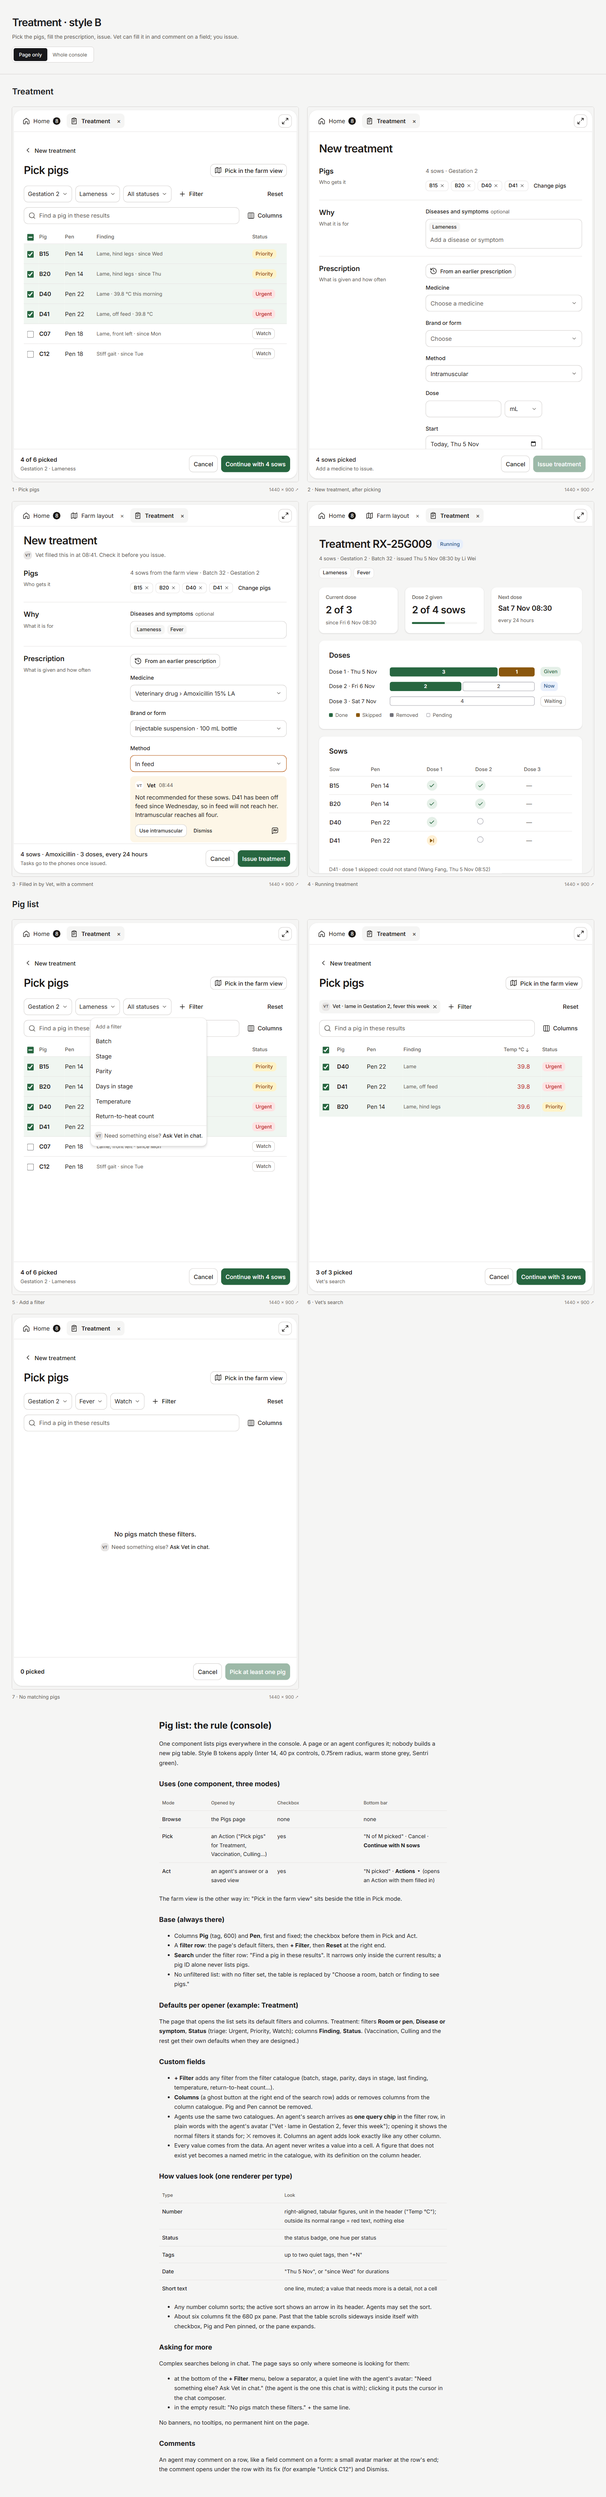
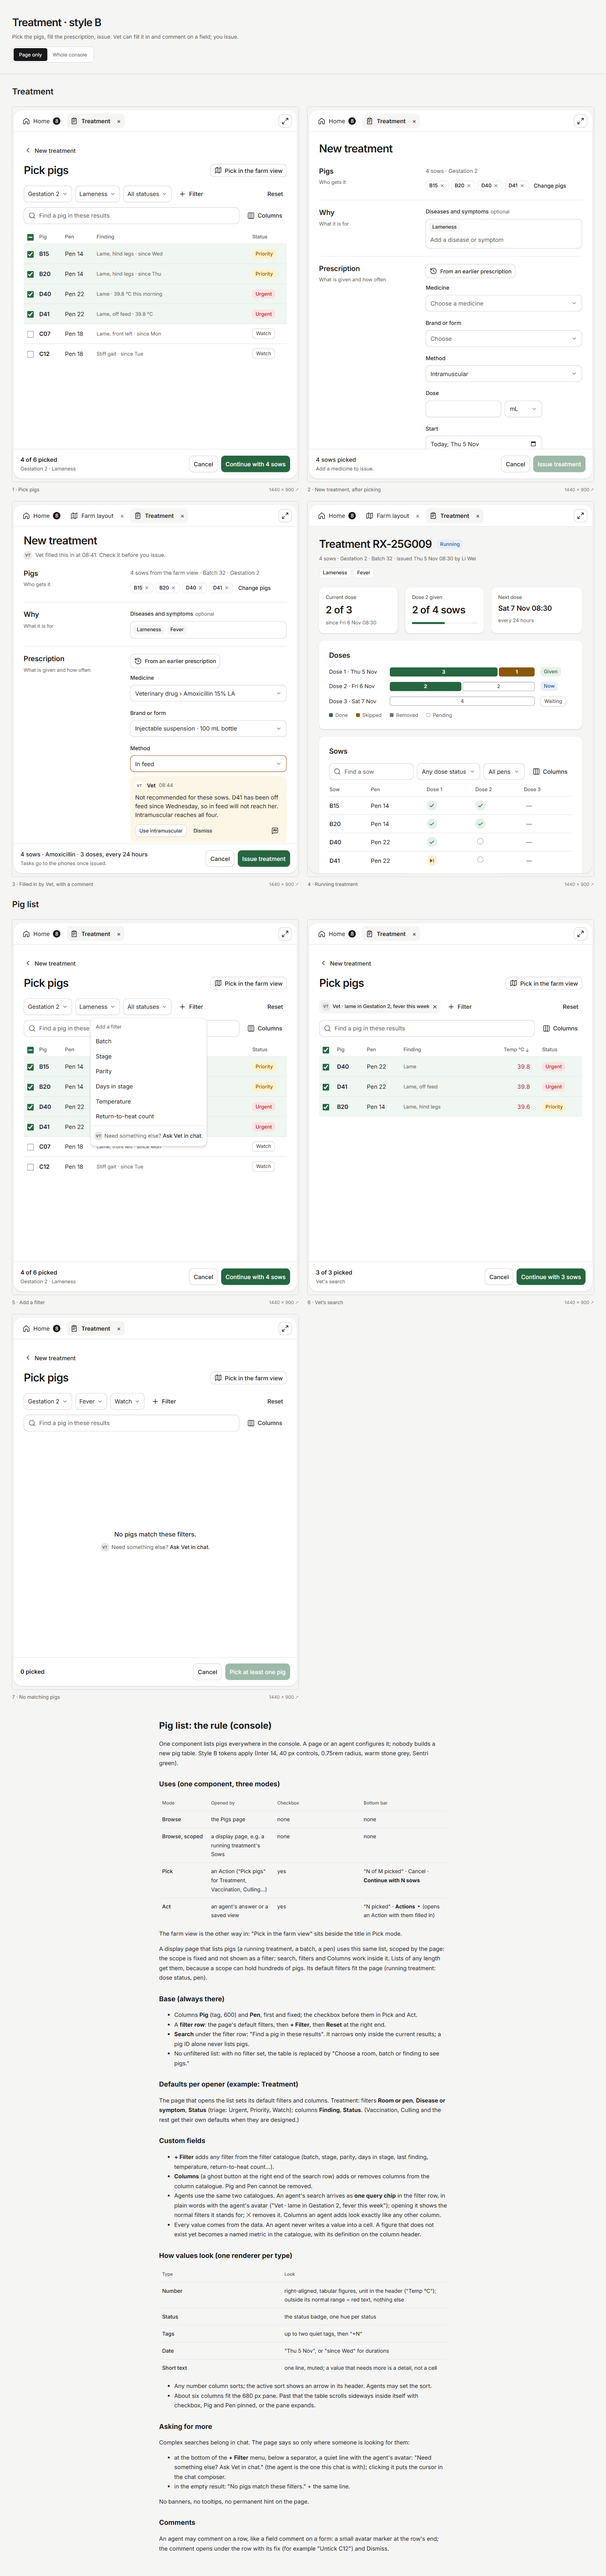
Running treatment: the Sows list gets search, dose-status and pen filters, Columns; rule covers lists scoped by a display page

diff --git a/prototypes/aifirst-canvas/style-board/treatment-b.html b/prototypes/aifirst-canvas/style-board/treatment-b.html
@@ -77,6 +77,7 @@
 
 .board-group>h2{font-size:22px;font-weight:600;margin-top:32px}.rule{max-width:760px;font-size:15px;line-height:1.7;margin:48px auto 20px}.rule h2{font-size:24px}.rule h3{font-size:18px;margin:28px 0 12px}.rule p,.rule ul,.rule table{margin:14px 0}.rule table{width:100%;border-collapse:collapse;font-size:14px}.rule th,.rule td{border-bottom:1px solid #e7e5e4;text-align:left;padding:10px 8px;vertical-align:top}.rule th{font-weight:500;color:#57534e}.rule tbody tr:hover{background:#f5f5f4}
 .filters{align-items:center}.filters .select-trigger{padding:0 9px;gap:6px}.filters .button{margin-left:0;white-space:nowrap}.filters>.reset-filters{margin-left:auto}.filter-anchor{position:relative;flex:none}.filter-menu{position:absolute;top:calc(100% + 6px);right:0;width:280px;padding:4px;background:white;border:1px solid var(--border);border-radius:var(--radius);box-shadow:0 4px 6px -1px #0000001a,0 2px 4px -2px #0000001a;z-index:5}.filter-menu[hidden]{display:none}.filter-heading{font-size:12px;color:var(--muted-foreground);padding:8px}.filter-item{display:block;border:0;border-radius:6px;background:white;text-align:left;padding:0 8px;width:100%;height:36px;font-size:14px;color:var(--foreground)}.filter-item:hover,.filter-item:focus-visible{background:var(--muted)}.filter-menu .separator{margin:4px -4px}.ask-chat{display:flex;align-items:center;justify-content:center;gap:6px;border:0;background:transparent;color:var(--muted-foreground);padding:10px 4px;font-size:13px;white-space:nowrap}.ask-chat strong{font-weight:500;color:var(--foreground)}.ask-chat .avatar,.query-chip .avatar{width:20px;height:20px;font-size:9px}.filter-menu .ask-chat{font-size:13px;gap:4px;padding:10px 0;width:100%}.query-chip{height:32px;padding:0 6px;font-size:12px;gap:6px;white-space:nowrap}.query-chip .query-details,.query-chip .remove-query{border:0;background:transparent;color:inherit;padding:0;font:inherit;display:flex;align-items:center;gap:6px}.query-chip svg{width:14px;height:14px}.query-filters{position:absolute;top:40px;left:0;z-index:6;padding:12px;background:white;border:1px solid var(--border);border-radius:var(--radius);box-shadow:var(--card-shadow);font-size:13px}.query-anchor{position:relative}.query-filters[hidden]{display:none}.frame .picker-body .search-row{margin-bottom:16px}.empty-pigs{min-height:350px;display:flex;flex-direction:column;justify-content:center;align-items:center}.empty-pigs p{font-size:15px;font-weight:500}.frame .picker-table.agent-table{table-layout:fixed}.frame .agent-table th:nth-child(4){width:176px}.frame .agent-table th:nth-child(5){width:112px}.frame .agent-table td,.frame .agent-table th{white-space:nowrap}.frame .agent-table .number{text-align:right;font-variant-numeric:tabular-nums}.agent-table td.number{color:#b91c1c}.agent-table th.number svg{width:14px;height:14px}
+.frame .list-tools{display:flex;gap:8px;align-items:center;margin-bottom:8px}.frame .list-tools .search-field{flex:1;min-width:0;margin:0}.frame .list-tools .select-trigger{width:auto;flex:none}.frame .list-tools .button{padding:0 10px}
 .frame .agent-table th.number,.frame .agent-table td.number{padding-right:28px;white-space:nowrap}.composer-placeholder{outline-offset:0;border-radius:6px}.composer-placeholder:focus{outline:2px solid var(--primary)}
 [data-frame="pick-none"] .right-pane .page-scroll{display:flex}[data-frame="pick-none"] .picker-body{display:flex;flex-direction:column;flex:1}[data-frame="pick-none"] .empty-pigs{flex:1;min-height:0}[data-frame="pick-none"] .picker-back{align-self:flex-start}
 </style>
@@ -89,9 +90,9 @@
 <h2>Pig list: the rule (console)</h2>
 <p>One component lists pigs everywhere in the console. A page or an agent configures it; nobody builds a new pig table. Style B tokens apply (Inter 14, 40 px controls, 0.75rem radius, warm stone grey, Sentri green).</p>
 <h3>Uses (one component, three modes)</h3>
-<table class="table"><thead><tr><th scope="col">Mode</th><th scope="col">Opened by</th><th scope="col">Checkbox</th><th scope="col">Bottom bar</th></tr></thead><tbody><tr><td>Browse</td><td>the Pigs page</td><td>none</td><td>none</td></tr><tr><td>Pick</td><td>an Action (&quot;Pick pigs&quot; for Treatment, Vaccination, Culling…)</td><td>yes</td><td>&quot;N of M picked&quot; · Cancel · <strong>Continue with N sows</strong></td></tr><tr><td>Act</td><td>an agent&#x27;s answer or a saved view</td><td>yes</td><td>&quot;N picked&quot; · <strong>Actions ▾</strong> (opens an Action with them filled in)</td></tr></tbody></table>
+<table class="table"><thead><tr><th scope="col">Mode</th><th scope="col">Opened by</th><th scope="col">Checkbox</th><th scope="col">Bottom bar</th></tr></thead><tbody><tr><td>Browse</td><td>the Pigs page</td><td>none</td><td>none</td></tr><tr><td>Browse, scoped</td><td>a display page, e.g. a running treatment&#39;s Sows</td><td>none</td><td>none</td></tr><tr><td>Pick</td><td>an Action (&quot;Pick pigs&quot; for Treatment, Vaccination, Culling…)</td><td>yes</td><td>&quot;N of M picked&quot; · Cancel · <strong>Continue with N sows</strong></td></tr><tr><td>Act</td><td>an agent&#x27;s answer or a saved view</td><td>yes</td><td>&quot;N picked&quot; · <strong>Actions ▾</strong> (opens an Action with them filled in)</td></tr></tbody></table>
 <p>The farm view is the other way in: &quot;Pick in the farm view&quot; sits beside the title in Pick mode.</p>
-<h3>Base (always there)</h3>
+<p>A display page that lists pigs (a running treatment, a batch, a pen) uses this same list, scoped by the page: the scope is fixed and not shown as a filter; search, filters and Columns work inside it. Lists of any length get them, because a scope can hold hundreds of pigs. Its default filters fit the page (running treatment: dose status, pen).</p><h3>Base (always there)</h3>
 <ul><li>Columns <strong>Pig</strong> (tag, 600) and <strong>Pen</strong>, first and fixed; the checkbox before them in Pick and Act.</li><li>A <strong>filter row</strong>: the page&#x27;s default filters, then <strong>+ Filter</strong>, then <strong>Reset</strong> at the right end.</li><li><strong>Search</strong> under the filter row: &quot;Find a pig in these results&quot;. It narrows only inside the current results; a pig ID alone never lists pigs.</li><li>No unfiltered list: with no filter set, the table is replaced by &quot;Choose a room, batch or finding to see pigs.&quot;</li></ul>
 <h3>Defaults per opener (example: Treatment)</h3>
 <p>The page that opens the list sets its default filters and columns. Treatment: filters <strong>Room or pen</strong>, <strong>Disease or symptom</strong>, <strong>Status</strong> (triage: Urgent, Priority, Watch); columns <strong>Finding</strong>, <strong>Status</strong>. (Vaccination, Culling and the rest get their own defaults when they are designed.)</p>
@@ -130,7 +131,7 @@ const doseData=[{label:'Dose 1 · Thu 5 Nov',done:3,skipped:1,removed:0,pending:
 function chart(){return `<div class="dose-rows" role="img" aria-label="Dose 1: 3 done, 1 skipped. Dose 2: 2 done, 2 pending. Dose 3: 4 pending.">${doseData.map((d,i)=>`<div class="dose-row"><span class="dose-label">${d.label}</span><div class="dose-bar">${['done','skipped','removed','pending'].filter(k=>d[k]).map(k=>`<span class="${k}" style="flex:${d[k]}">${d[k]}</span>`).join('')}</div><span class="badge ${['given','now','waiting'][i]}">${d.state}</span></div>`).join('')}</div><div class="legend"><span><i></i>Done</span><span><i class="skipped"></i>Skipped</span><span><i class="removed"></i>Removed</span><span><i class="pending"></i>Pending</span></div>`}
 function card(title,body,footer=''){return `<section class="card"><div class="card-header"><h2 class="card-title">${title}</h2></div><div class="card-content">${body}</div>${footer?`<div class="card-footer">${footer}</div>`:''}</section>`}
 function mark(status){return `<span class="status-mark ${status}" role="img" aria-label="${status}">${{done:'<svg viewBox="0 0 24 24" fill="none" stroke="currentColor" stroke-width="2.5" stroke-linecap="round" stroke-linejoin="round"><path d="M20 6 9 17l-5-5"/></svg>',skipped:'<svg viewBox="0 0 24 24" fill="currentColor" stroke="currentColor" stroke-width="1.5" stroke-linejoin="round"><path d="m5 5 10 7-10 7Z"/><path d="M19 5v14" fill="none" stroke-linecap="round" stroke-width="2.5"/></svg>',pending:'',waiting:'—'}[status]}</span>`}
-function runningTreatment(v){return `<div class="page-scroll running-scroll"><div class="running-body"><header class="running-header"><div class="running-title"><h1>Treatment RX-25G009</h1><span class="badge running">Running</span></div><p class="muted">4 sows · Gestation 2 · Batch 32 · issued Thu 5 Nov 08:30 by Li Wei</p><div class="disease-chips"><span class="badge outline">Lameness</span><span class="badge outline">Fever</span></div></header><div class="stats"><section class="card stat"><div class="card-header"><h2 class="card-title">Current dose</h2></div><div class="card-content"><strong>2 of 3</strong><p class="small muted">since Fri 6 Nov 08:30</p></div></section><section class="card stat"><div class="card-header"><h2 class="card-title">Dose 2 given</h2></div><div class="card-content"><strong>2 of 4 sows</strong><div class="progress" role="progressbar" aria-valuenow="2" aria-valuemin="0" aria-valuemax="4" aria-label="Dose 2 given"><span></span></div></div></section><section class="card stat next"><div class="card-header"><h2 class="card-title">Next dose</h2></div><div class="card-content"><strong>Sat 7 Nov 08:30</strong><p class="small muted">every 24 hours</p></div></section></div>${card('Doses',chart())}${card('Sows',`<table class="table"><thead><tr>${['Sow','Pen','Dose 1','Dose 2','Dose 3'].map(x=>`<th scope="col">${x}</th>`).join('')}</tr></thead><tbody>${[['B15','14','done','done'],['B20','14','done','done'],['D40','22','done','pending'],['D41','22','skipped','pending']].map(r=>`<tr><td>${r[0]}</td><td>Pen ${r[1]}</td><td>${mark(r[2])}</td><td>${mark(r[3])}</td><td>${mark('waiting')}</td></tr>`).join('')}</tbody></table>`,`<p class="reason">D41 · dose 1 skipped: could not stand (Wang Fang, Thu 5 Nov 08:52)</p>`)}${card('Prescription',`<div class="prescription-detail"><strong>Amoxicillin 15% LA</strong><p>Injectable suspension · Intramuscular · 15 mL a sow</p><p>3 doses, every 24 hours</p><p class="muted">Withdrawal 14 days (from the medicine record)</p><div class="separator"></div><p><span class="notes">Notes:</span> Keep D40 and D41 on straw</p></div>`)}</div></div>`}
+function runningTreatment(v){return `<div class="page-scroll running-scroll"><div class="running-body"><header class="running-header"><div class="running-title"><h1>Treatment RX-25G009</h1><span class="badge running">Running</span></div><p class="muted">4 sows · Gestation 2 · Batch 32 · issued Thu 5 Nov 08:30 by Li Wei</p><div class="disease-chips"><span class="badge outline">Lameness</span><span class="badge outline">Fever</span></div></header><div class="stats"><section class="card stat"><div class="card-header"><h2 class="card-title">Current dose</h2></div><div class="card-content"><strong>2 of 3</strong><p class="small muted">since Fri 6 Nov 08:30</p></div></section><section class="card stat"><div class="card-header"><h2 class="card-title">Dose 2 given</h2></div><div class="card-content"><strong>2 of 4 sows</strong><div class="progress" role="progressbar" aria-valuenow="2" aria-valuemin="0" aria-valuemax="4" aria-label="Dose 2 given"><span></span></div></div></section><section class="card stat next"><div class="card-header"><h2 class="card-title">Next dose</h2></div><div class="card-content"><strong>Sat 7 Nov 08:30</strong><p class="small muted">every 24 hours</p></div></section></div>${card('Doses',chart())}${card('Sows',`<div class="list-tools"><div class="search-field">${icon('search')}<input class="input" aria-label="Find a sow in this treatment" placeholder="Find a sow"></div>${select('Any dose status','Dose status')}${select('All pens','Pen')}${btn('Columns','ghost','columns-3','columns-button')}</div><table class="table"><thead><tr>${['Sow','Pen','Dose 1','Dose 2','Dose 3'].map(x=>`<th scope="col">${x}</th>`).join('')}</tr></thead><tbody>${[['B15','14','done','done'],['B20','14','done','done'],['D40','22','done','pending'],['D41','22','skipped','pending']].map(r=>`<tr><td>${r[0]}</td><td>Pen ${r[1]}</td><td>${mark(r[2])}</td><td>${mark(r[3])}</td><td>${mark('waiting')}</td></tr>`).join('')}</tbody></table>`,`<p class="reason">D41 · dose 1 skipped: could not stand (Wang Fang, Thu 5 Nov 08:52)</p>`)}${card('Prescription',`<div class="prescription-detail"><strong>Amoxicillin 15% LA</strong><p>Injectable suspension · Intramuscular · 15 mL a sow</p><p>3 doses, every 24 hours</p><p class="muted">Withdrawal 14 days (from the medicine record)</p><div class="separator"></div><p><span class="notes">Notes:</span> Keep D40 and D41 on straw</p></div>`)}</div></div>`}
 function message(text,time){return `<div class="chat-message"><div class="avatar">VT</div><div class="message-body"><div class="message-meta"><strong>Vet</strong><time>${time}</time></div><p>${text}</p></div></div>`}
 function shell(v,screen){const styles={'--font':`'${v.font}'`,'--text':v.text+'px','--control-h':v.control+'px','--pad':v.pad+'px','--radius':v.radius,'--page-grey':v.grey,'--primary':v.primary,'--foreground':v.foreground,'--muted-foreground':v.muted,'--muted':v.grey,'--border':v.border,'--input':v.input,'--card-shadow':v.shadow,'--card-border':v.edge,'--t-xs':v.xs+'px','--t-sm':v.sm+'px','--t-ctl':v.ctl+'px','--t-base':v.base+'px','--t-h1':v.h1+'px','--t-h2':v.h2+'px','--t-stat':v.stat+'px','--gap':v.gap+'px','--gap-lg':v.gapLg+'px','--row-h':v.row+'px','--h1-track':v.track};return `<article class="frame layout-${v.layout}" data-frame="${screen}" style="${Object.entries(styles).map(([k,val])=>`${k}:${val}`).join(';')}" aria-label="${v.id} · ${v.name} · ${screen.startsWith('pick')?'Pick pigs':screen==='running'?'Running treatment':'New treatment'}"><nav class="rail" aria-label="Team"><div class="logo">${icon('leaf')}</div><div class="separator"></div>${['GM','PR','VT','BS','EQ'].map(x=>`<div class="agent ${x==='VT'?'selected':''}"><div class="avatar">${x}</div></div>`).join('')}<div class="separator"></div><div class="agent">${icon('people')}</div><div class="agent">${icon('people')}</div><div class="avatar rail-bottom">A</div></nav><aside class="panel chat"><header class="chat-header"><div class="avatar">VT</div><div><strong>Vet</strong><p>Health, vaccinations, treatments · reports to General Manager</p></div></header><div class="chat-feed">${screen==='pick-agent'?`<div class="user-bubble">Show me the lame sows in Gestation 2 that had a fever this week</div>${message('Three sows. They are in the picker, highest temperature first.','09:02')}`:(screen.startsWith('pick')||screen==='form')?message('Six sows in Gestation 2 have new lameness findings since Monday.','07:30'):screen==='filled'?`<div class="user-bubble">Treat the four lame sows I picked</div>${message('I filled in the treatment page: Amoxicillin 15% LA, 15 mL into the neck muscle, 3 doses a day apart. Check it and issue it.','08:41')}`:`<div class="user-bubble">Treat the four lame sows I picked</div>${message('B15, B20, D40 and D41 are lame on the hind legs; D40 and D41 were 39.8 °C this morning. I filled in the treatment page: Amoxicillin 15% LA, 15 mL into the neck muscle, 3 doses a day apart. Check it and issue it.','08:41')}${screen==='running'?`<div class="day-divider">2 days on</div>${message('Dose 2 is half done: D40 and D41 are still waiting. D41 was skipped on dose 1, could not stand.','Sat 08:12')}`:''}` }</div><div class="chat-bottom"><div class="composer"><span class="badge secondary">${icon('clipboard')}Looking at ${screen==='pick-agent'?'Pick pigs':'Treatment'}</span><div class="composer-placeholder" role="textbox" aria-label="Ask Vet anything" contenteditable="true" tabindex="0">Ask Vet anything</div><div class="composer-tools">${btn('','outline','plus','icon-button')}${btn('/ Actions','secondary','','compact')}<span class="spacer"></span>${btn('','ghost','mic','icon-button')}${btn('','secondary','arrow','icon-button')}</div></div><p class="chat-disclaimer">Your team can open and fill in pages. Nothing is sent or saved without your OK.</p></div></aside><section class="panel right-pane"><nav class="tab-bar" aria-label="Open pages"><span class="tab">${icon('home')}Home <span class="count">8</span></span>${screen==='filled'||screen==='running'?`<span class="tab">${icon('map')}Farm layout <span class="close">×</span></span>`:''}<span class="tab active">${icon('clipboard')}Treatment <span class="close">×</span></span><button class="button outline icon-button" aria-label="Expand pane">${icon('expand')}</button></nav>${screen.startsWith('pick')?pigPicker(screen):screen==='running'?runningTreatment(v):newTreatment(v,screen)}</section></article>`}
 const titles={pick:'1 · Pick pigs',form:'2 · New treatment, after picking',filled:'3 · Filled in by Vet, with a comment',running:'4 · Running treatment','pick-filters':'5 · Add a filter','pick-agent':"6 · Vet’s search",'pick-none':'7 · No matching pigs'};

diff --git a/prototypes/aifirst-canvas/style-board/pig-list-rule.md b/prototypes/aifirst-canvas/style-board/pig-list-rule.md
@@ -8,10 +8,13 @@ Style B tokens apply (Inter 14, 40 px controls, 0.75rem radius, warm stone grey,
 | Mode | Opened by | Checkbox | Bottom bar |
 |---|---|---|---|
 | Browse | the Pigs page | none | none |
+| Browse, scoped | a display page, e.g. a running treatment's Sows | none | none |
 | Pick | an Action ("Pick pigs" for Treatment, Vaccination, Culling…) | yes | "N of M picked" · Cancel · **Continue with N sows** |
 | Act | an agent's answer or a saved view | yes | "N picked" · **Actions ▾** (opens an Action with them filled in) |
 
 The farm view is the other way in: "Pick in the farm view" sits beside the title in Pick mode.
+
+A display page that lists pigs (a running treatment, a batch, a pen) uses this same list, scoped by the page: the scope is fixed and not shown as a filter; search, filters and Columns work inside it. Lists of any length get them, because a scope can hold hundreds of pigs. Its default filters fit the page (running treatment: dose status, pen).
 
 ## Base (always there)
 
